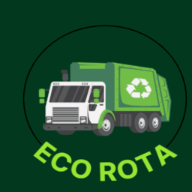
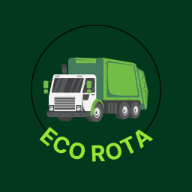
.

diff --git a/index.html b/index.html
@@ -69,7 +69,7 @@
     <main>
         <div class="container">
             <div class="d-flex justify-content-center align-items-center">
-                <a href="mapa.html"><img src="./img/001.png" alt=""></a>
+                <a href="mapa.html"><img src="./img/ecorota.jpg" alt=""></a>
             </div>
         </div>
         

diff --git a/css/favorito.css b/css/favorito.css
@@ -93,7 +93,3 @@ footer a{
     color: var(--cor06);
     text-shadow: 2px 1px 2px rgba(0, 0, 0, 0.493);
 }
-.programadas{
-    
-
-}
